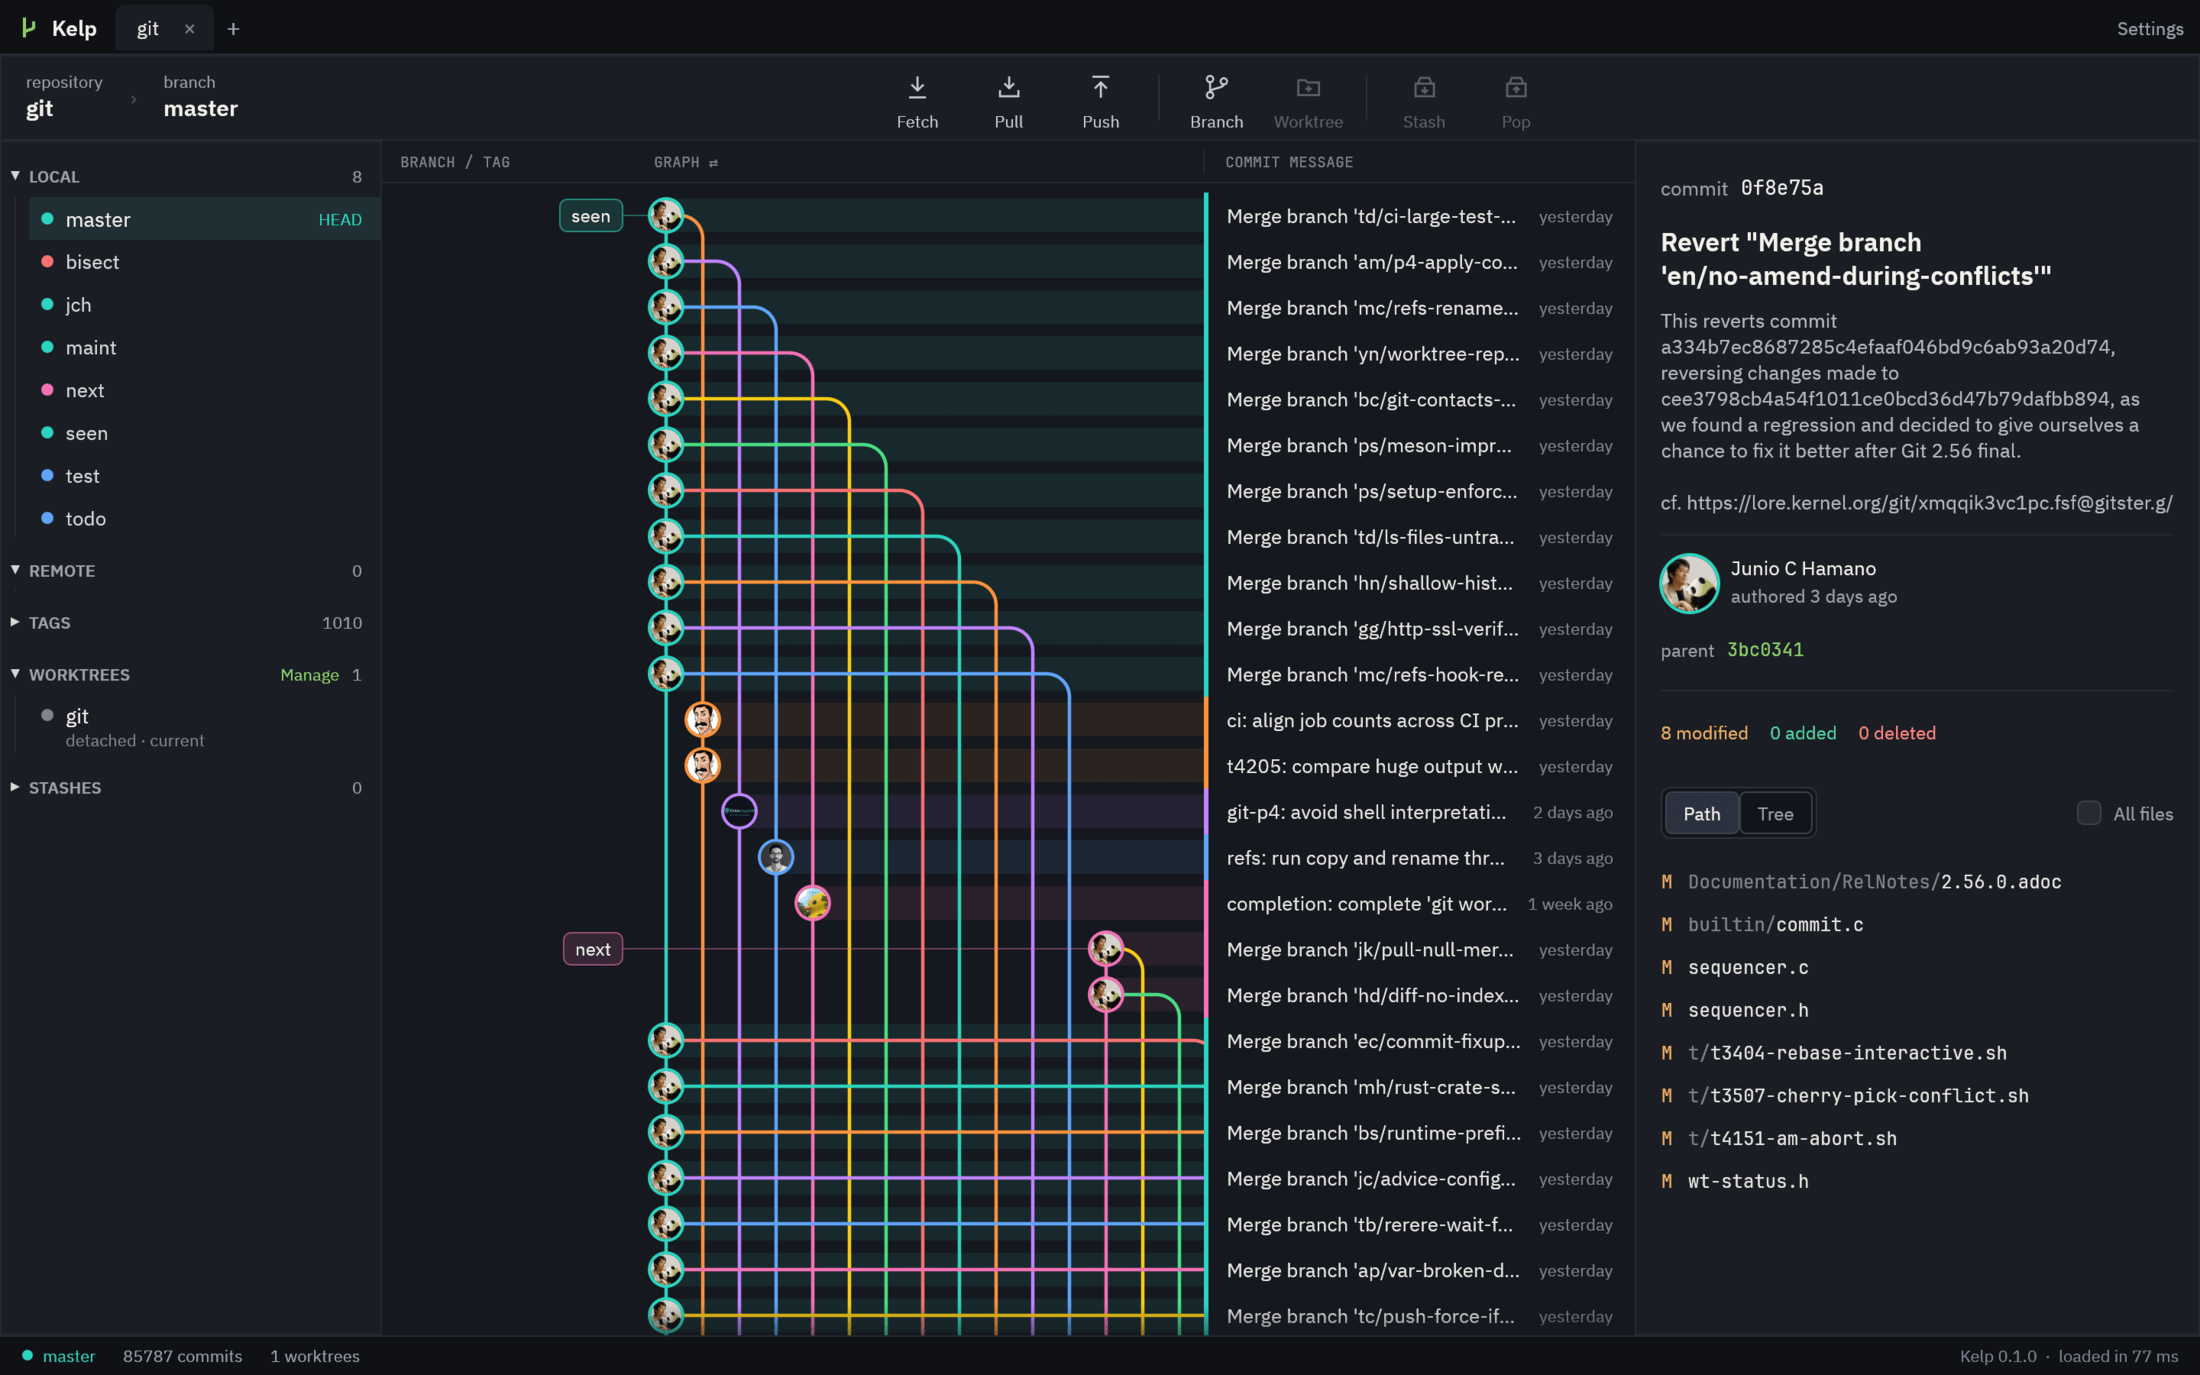
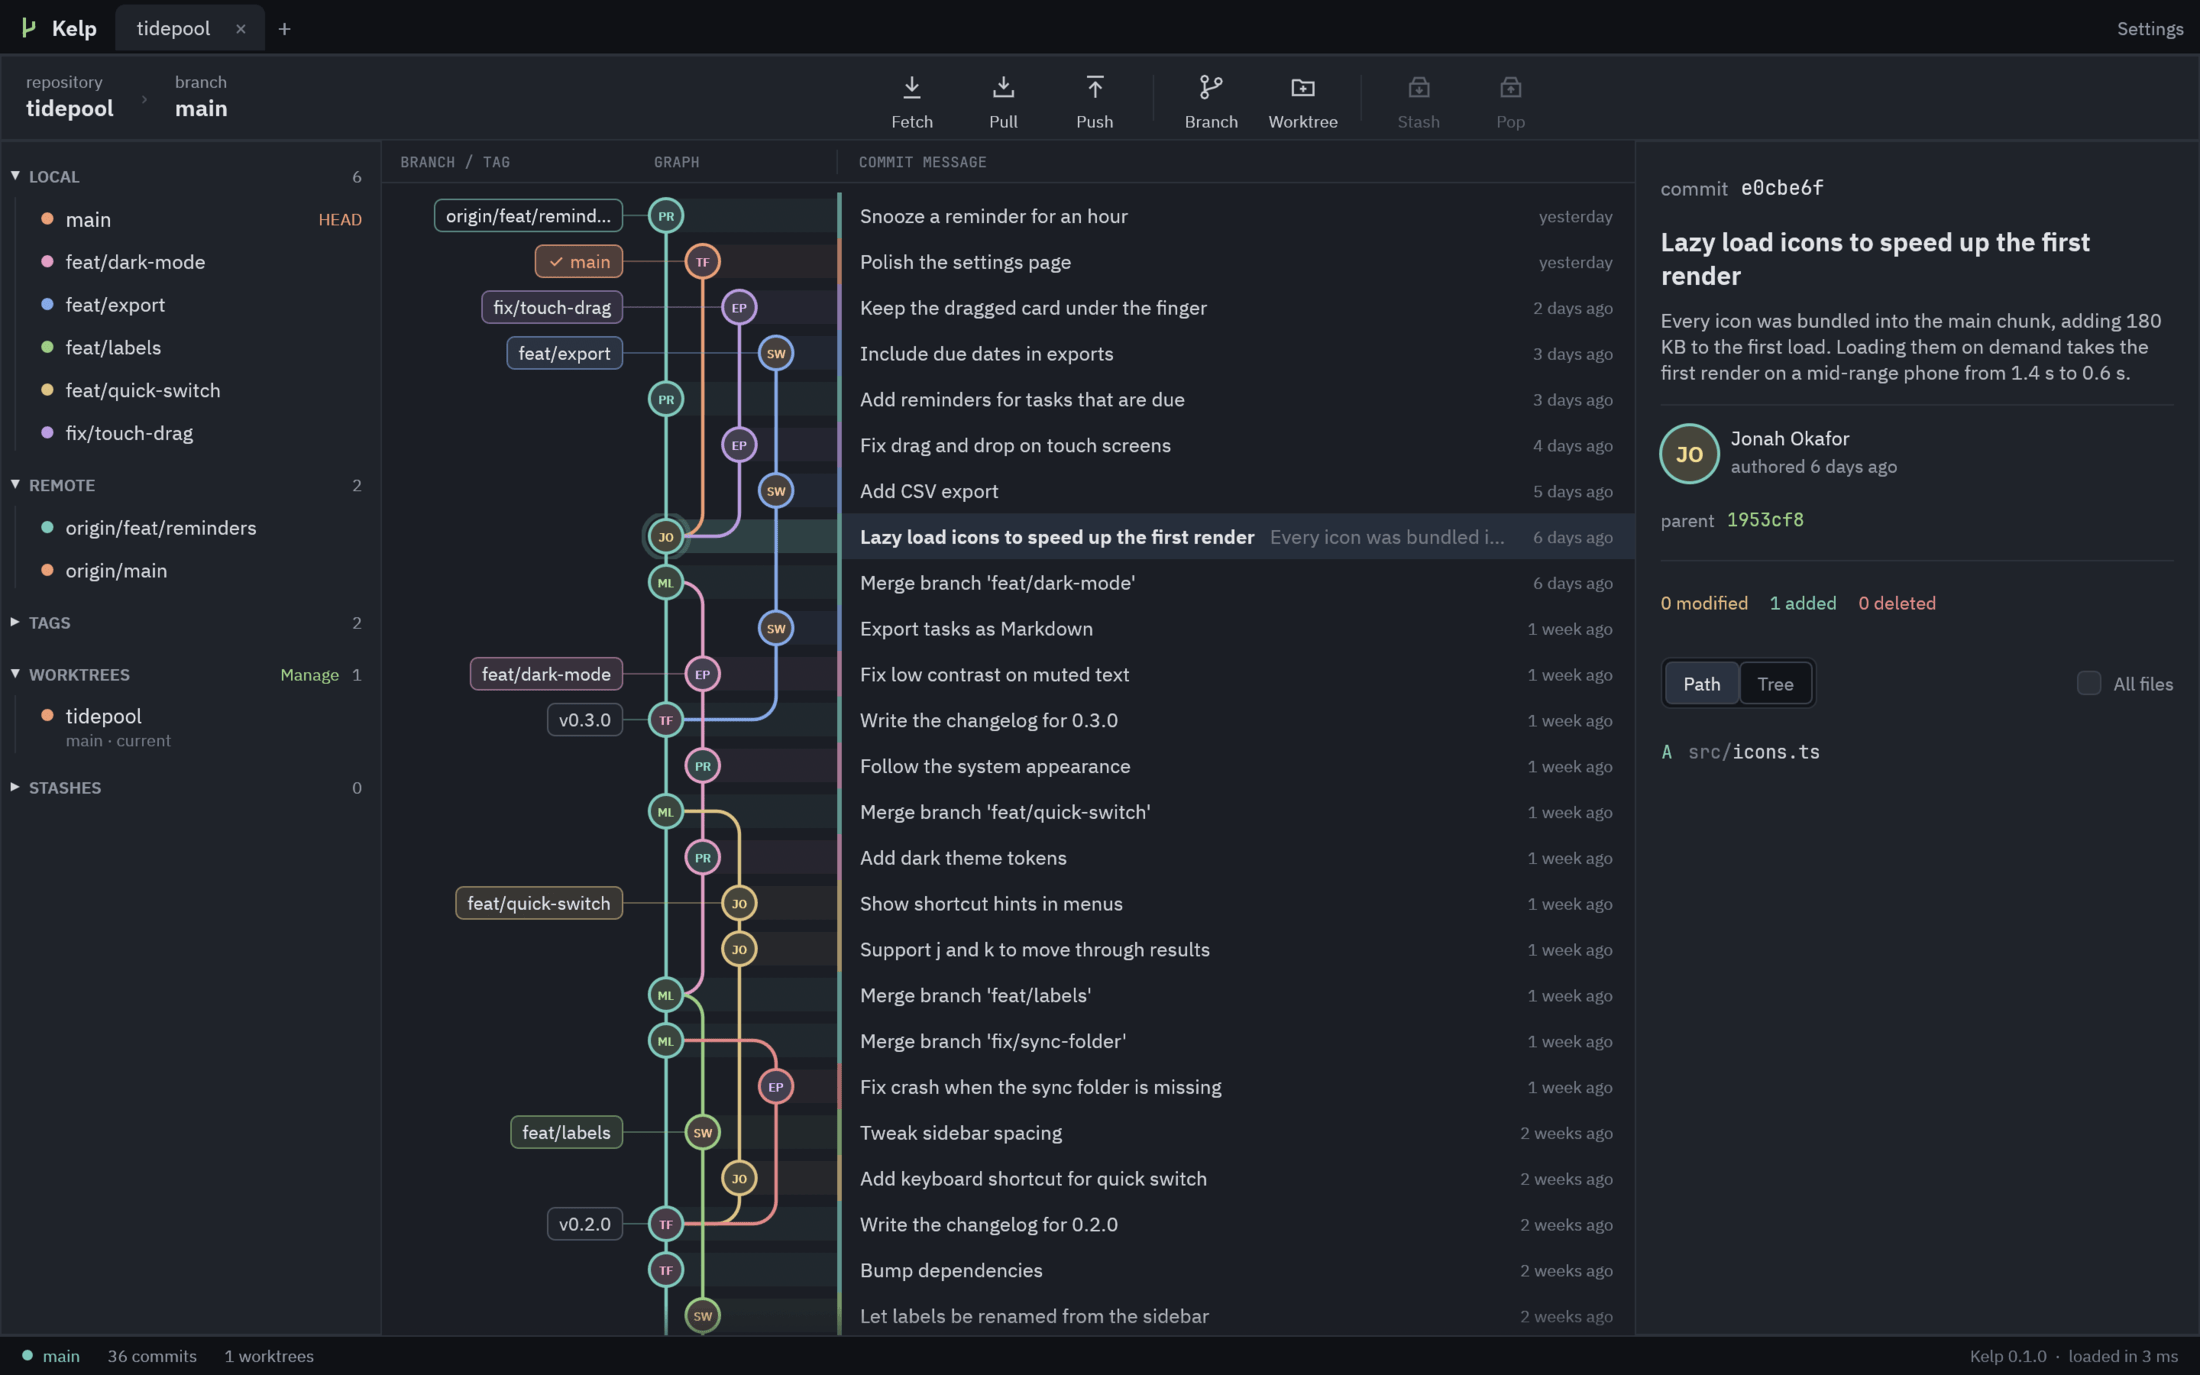
docs(site): demo repo screenshots and an always-current card
The graph shot and OG image come from a generated demo repo instead of
git/git's wall of merge commits, and all shots use the softer theme.

diff --git a/site/index.html b/site/index.html
@@ -114,7 +114,7 @@
   h2{margin-top:10px;font-size:clamp(28px,4vw,42px);line-height:1.12;letter-spacing:-.02em;color:var(--strong);font-weight:700}
   .sub{margin-top:12px;font-size:17px;color:var(--muted);max-width:640px}
 
-  .grid{margin-top:40px;display:grid;grid-template-columns:repeat(4,minmax(0,1fr));gap:16px}
+  .grid{margin-top:40px;display:grid;grid-template-columns:repeat(3,minmax(0,1fr));gap:16px}
   @media(max-width:980px){.grid{grid-template-columns:repeat(2,minmax(0,1fr))}}
   @media(max-width:560px){.grid{grid-template-columns:1fr}}
   .card{background:var(--panel);border:1px solid var(--line);border-radius:12px;padding:22px}
@@ -212,7 +212,7 @@
 <div class="wrap">
   <div class="window">
     <div class="bar"><i style="background:#ff5f57"></i><i style="background:#febc2e"></i><i style="background:#28c840"></i></div>
-    <img src="shot-graph.png" width="2200" height="1375" alt="Kelp showing git/git's commit graph: colored lanes with rounded merges, author avatars, branch labels and the details of a selected commit">
+    <img src="shot-graph.png" width="2200" height="1375" alt="Kelp showing a project's commit graph: colored lanes for feature branches with rounded merges, author avatars, branch and tag labels and the details of a selected commit">
   </div>
 </div>
 
@@ -252,6 +252,10 @@
     <div class="card">
       <svg viewBox="0 0 24 24" fill="none" stroke="#9fd4e8" stroke-width="1.8" stroke-linecap="round"><path d="M12 3v12M7 10l5 5 5-5M5 21h14"/></svg>
       <h3>Updates itself</h3><p>Installed with Homebrew, Kelp picks up new releases in the background and asks you to restart when it's ready.</p>
+    </div>
+    <div class="card">
+      <svg viewBox="0 0 24 24" fill="none" stroke="#a6d189" stroke-width="1.8" stroke-linecap="round" stroke-linejoin="round"><path d="M20 11a8 8 0 0 0-14.3-4.9L4 8M4 4v4h4M4 13a8 8 0 0 0 14.3 4.9L20 16M20 20v-4h-4"/></svg>
+      <h3>Always current</h3><p>Commit from the terminal or let a teammate push: the graph updates on its own, with a quiet background fetch every few minutes.</p>
     </div>
   </div>
 

diff --git a/scripts/make-demo-repo.py b/scripts/make-demo-repo.py
@@ -1,0 +1,185 @@
+#!/usr/bin/env python3
+"""Build the fictional "tidepool" repo used for the marketing screenshots."""
+import os
+import shutil
+import subprocess
+import sys
+from datetime import datetime, timedelta, timezone
+
+repo = sys.argv[1]
+shutil.rmtree(repo, ignore_errors=True)
+os.makedirs(repo)
+
+AUTHORS = {
+    "maya": ("Maya Lindqvist", "maya@example.com"),
+    "tomas": ("Tomás Ferreira", "tomas@example.com"),
+    "priya": ("Priya Raman", "priya@example.com"),
+    "jonah": ("Jonah Okafor", "jonah@example.com"),
+    "elena": ("Elena Petrova", "elena@example.com"),
+    "sam": ("Sam Whitaker", "sam@example.com"),
+}
+clock = datetime.now(timezone.utc).replace(hour=9, minute=12, second=0, microsecond=0) - timedelta(days=25)
+step = 0
+
+
+def git(*args, author="maya"):
+    global clock, step
+    step += 1
+    clock += timedelta(hours=3 + (step * 7) % 11, minutes=(step * 23) % 60)
+    name, email = AUTHORS[author]
+    stamp = clock.isoformat()
+    env = dict(os.environ, GIT_AUTHOR_NAME=name, GIT_AUTHOR_EMAIL=email, GIT_COMMITTER_NAME=name,
+               GIT_COMMITTER_EMAIL=email, GIT_AUTHOR_DATE=stamp, GIT_COMMITTER_DATE=stamp)
+    subprocess.run(["git", "-C", repo, *args], check=True, env=env, stdout=subprocess.DEVNULL)
+
+
+def write(path, text, mode="a"):
+    full = os.path.join(repo, path)
+    os.makedirs(os.path.dirname(full) or repo, exist_ok=True)
+    with open(full, mode) as f:
+        f.write(text)
+
+
+def commit(author, message, path, text):
+    write(path, text)
+    git("add", "-A", author=author)
+    git("commit", "-q", "-m", message, author=author)
+
+
+def branch(name):
+    subprocess.run(["git", "-C", repo, "switch", "-q", "-c", name], check=True)
+
+
+def switch(name):
+    subprocess.run(["git", "-C", repo, "switch", "-q", name], check=True)
+
+
+def merge(author, name):
+    switch("main")
+    git("merge", "-q", "--no-ff", "-m", f"Merge branch '{name}'", name, author=author)
+
+
+subprocess.run(["git", "init", "-q", "-b", "main", repo], check=True)
+commit("maya", "Set up the project with Vite and TypeScript", "package.json",
+       '{\n  "name": "tidepool",\n  "version": "0.1.0",\n  "type": "module"\n}\n')
+commit("maya", "Add a task list backed by local storage", "src/tasks.ts",
+       "export type Task = { id: string; title: string; done: boolean };\n\n"
+       "export const load = (): Task[] => JSON.parse(localStorage.getItem('tasks') ?? '[]');\n")
+commit("tomas", "Write setup steps in the README", "README.md",
+       "# Tidepool\n\nA calm little task tracker.\n\n    npm install\n    npm run dev\n")
+
+branch("feat/search")
+commit("priya", "Add a search box to the header", "src/search.ts",
+       "export const searchBox = () => document.querySelector<HTMLInputElement>('#search')!;\n")
+switch("main")
+commit("jonah", "Fix date parsing on Safari", "src/dates.ts",
+       "export const parse = (s: string) => new Date(s.replace(' ', 'T'));\n")
+switch("feat/search")
+commit("priya", "Filter tasks as you type", "src/search.ts",
+       "\nexport const matches = (title: string, query: string) =>\n"
+       "  title.toLowerCase().includes(query.trim().toLowerCase());\n")
+
+switch("main")
+branch("fix/empty-state")
+commit("elena", "Show a friendly empty state", "src/empty.ts",
+       "export const emptyState = 'Nothing here yet. Add your first task.';\n")
+switch("feat/search")
+commit("priya", "Highlight matches in task titles", "src/search.ts",
+       "\nexport const highlight = (title: string, query: string) =>\n"
+       "  title.replace(new RegExp(query, 'gi'), (m) => `<mark>${m}</mark>`);\n")
+merge("maya", "fix/empty-state")
+
+branch("feat/labels")
+commit("sam", "Add colored labels to tasks", "src/labels.ts",
+       "export type Label = { name: string; color: string };\n")
+merge("maya", "feat/search")
+switch("feat/labels")
+commit("sam", "Let labels be renamed from the sidebar", "src/labels.ts",
+       "\nexport const rename = (label: Label, name: string): Label => ({ ...label, name });\n")
+switch("main")
+write("package.json", '{\n  "name": "tidepool",\n  "version": "0.2.0",\n  "type": "module",\n'
+      '  "devDependencies": { "typescript": "^5.9.2", "vite": "^7.1.4" }\n}\n', mode="w")
+git("commit", "-qam", "Bump dependencies", author="tomas")
+commit("tomas", "Write the changelog for 0.2.0", "CHANGELOG.md",
+       "## 0.2.0\n\n- Search with highlighted matches\n- Friendly empty state\n")
+git("tag", "-a", "v0.2.0", "-m", "v0.2.0", author="tomas")
+
+branch("feat/quick-switch")
+commit("jonah", "Add keyboard shortcut for quick switch", "src/keys.ts",
+       "export const bindings = { quickSwitch: 'Mod+K' };\n")
+switch("feat/labels")
+commit("sam", "Tweak sidebar spacing", "src/sidebar.css",
+       ".sidebar { padding: 12px 10px; gap: 6px; }\n")
+switch("main")
+branch("fix/sync-folder")
+commit("elena", "Fix crash when the sync folder is missing", "src/sync.ts",
+       "export const syncDir = (dir?: string) => dir ?? defaultDir();\n")
+merge("maya", "fix/sync-folder")
+merge("maya", "feat/labels")
+switch("feat/quick-switch")
+commit("jonah", "Support j and k to move through results", "src/keys.ts",
+       "\nexport const move = { down: 'j', up: 'k' };\n")
+commit("jonah", "Show shortcut hints in menus", "src/menu.ts",
+       "export const hint = (keys: string) => `<kbd>${keys}</kbd>`;\n")
+
+switch("main")
+branch("feat/dark-mode")
+commit("priya", "Add dark theme tokens", "src/theme.css",
+       ":root { --bg: #fbfaf7; --ink: #1d1f24; }\n")
+merge("maya", "feat/quick-switch")
+switch("feat/dark-mode")
+commit("priya", "Follow the system appearance", "src/theme.css",
+       "@media (prefers-color-scheme: dark) { :root { --bg: #16181d; --ink: #eceae4; } }\n")
+switch("main")
+commit("tomas", "Write the changelog for 0.3.0", "CHANGELOG.md",
+       "\n## 0.3.0\n\n- Quick switch with Mod+K\n- Colored labels\n")
+git("tag", "-a", "v0.3.0", "-m", "v0.3.0", author="tomas")
+switch("feat/dark-mode")
+commit("elena", "Fix low contrast on muted text", "src/theme.css",
+       ":root { --muted: #6b7079; }\n")
+
+switch("main")
+branch("feat/export")
+commit("sam", "Export tasks as Markdown", "src/export.ts",
+       "export const toMarkdown = (tasks: Task[]) =>\n"
+       "  tasks.map((t) => `- [${t.done ? 'x' : ' '}] ${t.title}`).join('\\n');\n")
+merge("maya", "feat/dark-mode")
+commit("jonah", "Lazy load icons to speed up the first render\n\n"
+       "Every icon was bundled into the main chunk, adding 180 KB to the first load. "
+       "Loading them on demand takes the first render on a mid-range phone from 1.4 s to 0.6 s.", "src/icons.ts",
+       "export const icon = (name: string) => import(`./icons/${name}.svg`);\n")
+switch("feat/export")
+commit("sam", "Add CSV export", "src/export.ts",
+       "\nexport const toCsv = (tasks: Task[]) => tasks.map((t) => `${t.id},${t.title}`).join('\\n');\n")
+
+switch("main")
+branch("fix/touch-drag")
+commit("elena", "Fix drag and drop on touch screens", "src/drag.ts",
+       "export const dragEvents = ['pointerdown', 'pointermove', 'pointerup'];\n")
+switch("main")
+branch("feat/reminders")
+commit("priya", "Add reminders for tasks that are due", "src/reminders.ts",
+       "export const dueSoon = (due: Date, now = new Date()) => due.getTime() - now.getTime() < 36e5;\n")
+switch("feat/export")
+commit("sam", "Include due dates in exports", "src/export.ts",
+       "\nexport const dueColumn = (t: Task & { due?: string }) => t.due ?? '';\n")
+switch("fix/touch-drag")
+commit("elena", "Keep the dragged card under the finger", "src/drag.ts",
+       "\nexport const offset = (e: PointerEvent, rect: DOMRect) => [e.clientX - rect.left, e.clientY - rect.top];\n")
+switch("main")
+commit("tomas", "Polish the settings page", "src/settings.css",
+       ".settings { max-width: 560px; margin: 0 auto; }\n")
+switch("feat/reminders")
+commit("priya", "Snooze a reminder for an hour", "src/reminders.ts",
+       "\nexport const snooze = (due: Date) => new Date(due.getTime() + 36e5);\n")
+
+switch("main")
+head = subprocess.check_output(["git", "-C", repo, "rev-parse", "main"], text=True).strip()
+subprocess.run(["git", "-C", repo, "update-ref", "refs/remotes/origin/main", head], check=True)
+for name in ["feat/reminders"]:
+    sha = subprocess.check_output(["git", "-C", repo, "rev-parse", name], text=True).strip()
+    subprocess.run(["git", "-C", repo, "update-ref", f"refs/remotes/origin/{name}", sha], check=True)
+    subprocess.run(["git", "-C", repo, "branch", "-q", "-D", name], check=True)
+for name in ["fix/empty-state", "feat/search", "fix/sync-folder"]:
+    subprocess.run(["git", "-C", repo, "branch", "-q", "-d", name], check=True)
+subprocess.run(["git", "-C", repo, "commit-graph", "write", "--reachable"], check=True)

diff --git a/.agents/rules/project.md b/.agents/rules/project.md
@@ -50,9 +50,9 @@ face. When work is done, check both against what shipped:
   corrected there, in the same branch.
 - Removed or renamed behavior comes off; never leave a claim the app no longer backs.
 - The nav version pill and the JSON-LD `softwareVersion` track `Cargo.toml` on every release.
-- Screenshots come from the screenshot switch on public repos (the kelp repo, git/git), never a
-  private or work repo. Rebuild them with `scripts/make-site-assets.sh`, which compresses them
-  (pngquant + oxipng) and checks PSNR.
+- Screenshots come from the screenshot switch on the kelp repo or the fictional demo repo that
+  `scripts/make-demo-repo.py` generates, never a private or work repo. Rebuild them with
+  `scripts/make-site-assets.sh`, which compresses them (pngquant + oxipng) and checks PSNR.
 - Internal refactors and fixes the page never mentioned need no change - say so in the wrap-up.
 
 ## Releases
